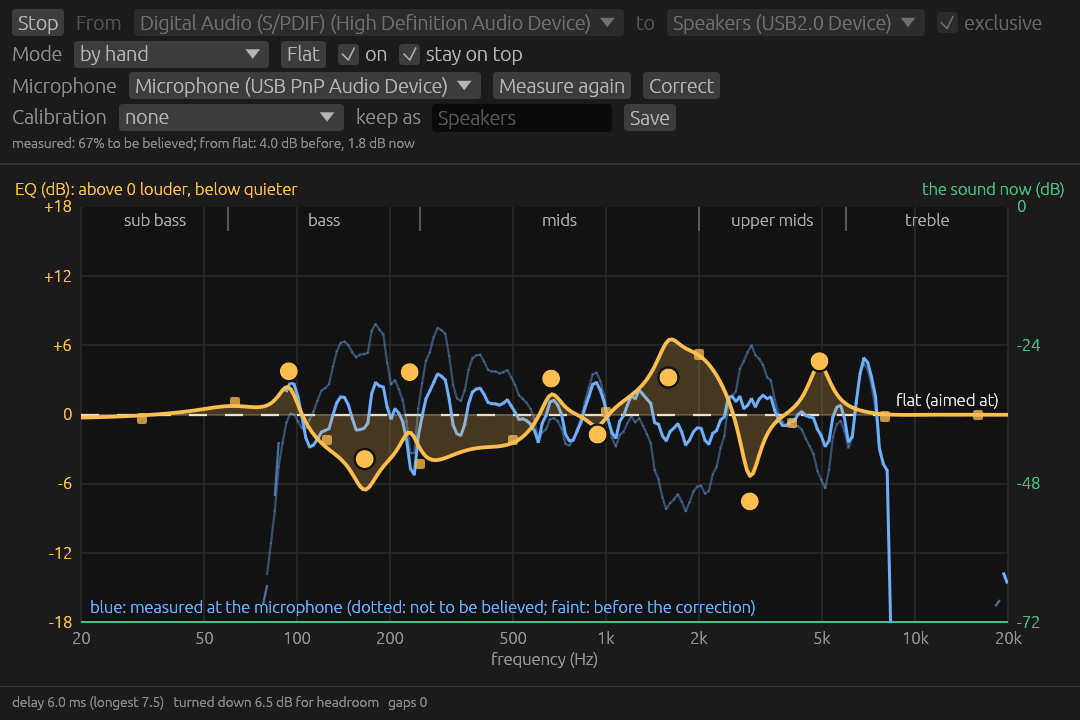
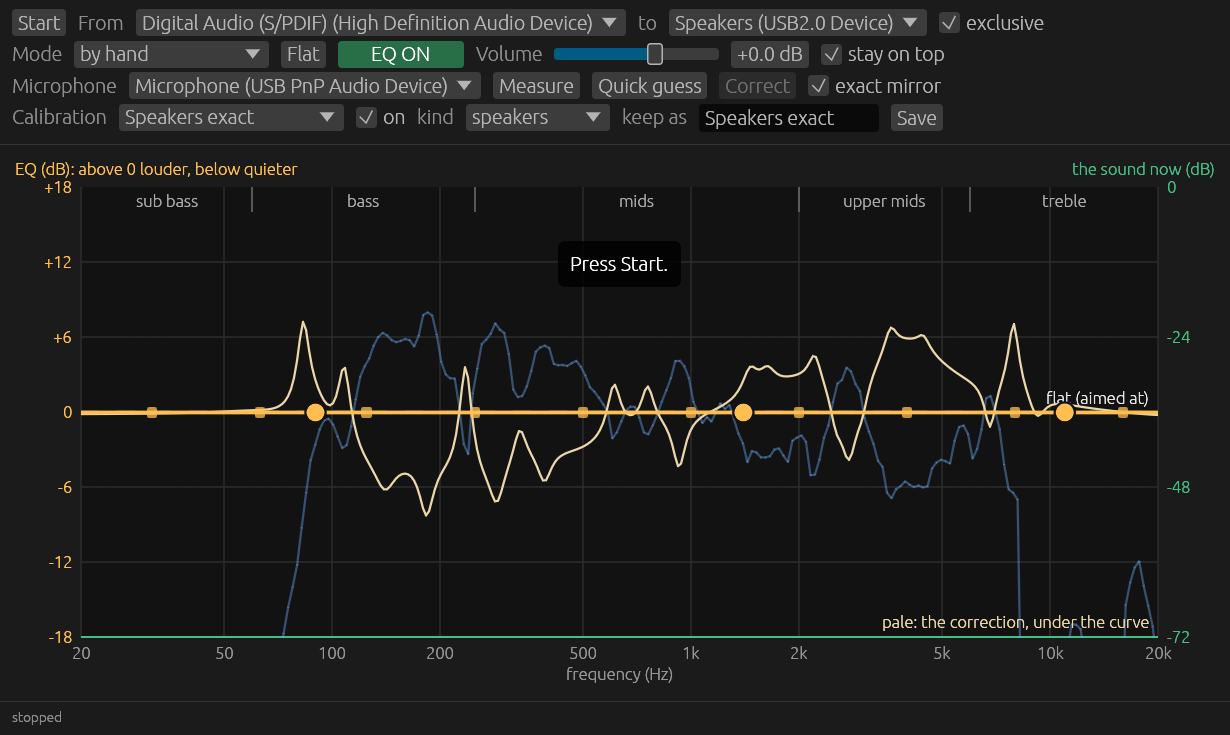
README: the correction's picture is the cleaner one (the measured curve and its mirror image)

diff --git a/README.md b/README.md
@@ -222,12 +222,13 @@ Not done: nobody but the program's own test has pressed Measure in the window.
 
 ### Stage 2: correcting
 
-![Measured, corrected and measured again](docs/window-corrected.png)
+![The measured curve and its correction, the mirror image](docs/window-corrected.png)
 
-**Correct** turns the last measurement over into the equalizer's curve (`src/calibrate.rs`), so that what
-reaches the microphone becomes flat. In the picture: the faint blue line is what was measured before,
-the amber curve the correction, the white dashes at 0 dB the flat that is aimed at, and the bright blue
-line what was measured again through the correction.
+**Correct** turns the last measurement over into a correction (`src/calibrate.rs`), so that what reaches
+the microphone becomes flat. In the picture (the calibration "Speakers exact"): the faint blue line is
+what was measured, the pale curve the correction, its mirror image, and the amber line at 0 dB the
+curve set by hand, on top of the correction and here flat. Measured again through the correction, a
+bright blue line shows how near flat it came.
 
 - **What is set right** is the speakers and the room alone: the measurement less the equalizer's curve
   the sweep went through. So it can be corrected again from any later measurement.
